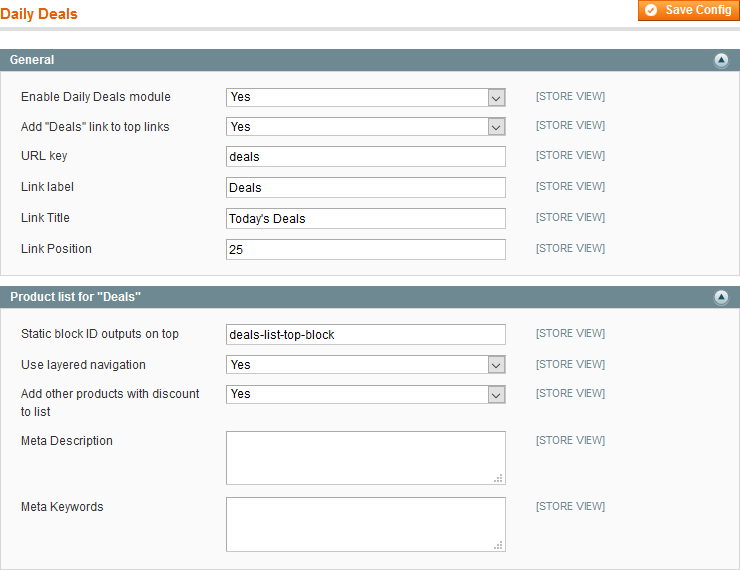
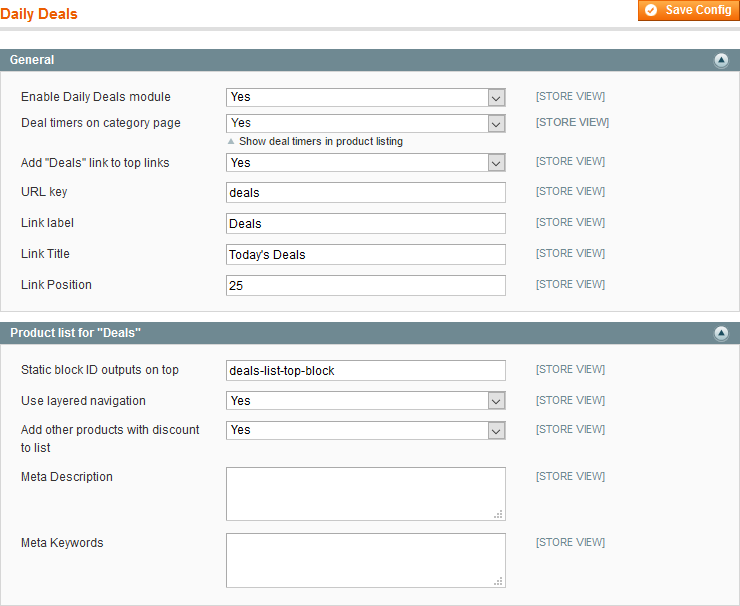
:books: Daily Deals updated to 1.1.0 :tada:

diff --git a/m1/extensions/dailydeals/index.md b/m1/extensions/dailydeals/index.md
@@ -17,25 +17,27 @@ than one product. With our extension you could create periodic deals. For exampl
 periodic Weekend deal or periodic Friday night deal.
 
 1. [Installation](installation/)
-	- [Update from version 1.0.1](installation/#update-from-version-101)
+    - [Update from version 1.0.1 to 1.0.2](installation/#update-from-version-101-to-102)
+    - [Update from version 1.0.2 to 1.1.0](installation/#update-from-version-102-to-110)
 2. [Backend](backend/)
-	- [Create deal](backend/create-deal/)
-		* [General](backend/create-deal/#general-tab)
-		* [Advanced](backend/create-deal/#advanced-tab)
-		* [Label](backend/create-deal/#label-tab)
-		* [Assigned products](backend/create-deal/#assigned-products-tab)
-	- [Edit deal](backend/edit-deal/)
-	- [Extension configuration](backend/extension-configuration/)
+    - [Create deal](backend/create-deal/)
+        * [General](backend/create-deal/#general-tab)
+        * [Advanced](backend/create-deal/#advanced-tab)
+        * [Label](backend/create-deal/#label-tab)
+        * [Assigned products](backend/create-deal/#assigned-products-tab)
+    - [Edit deal](backend/edit-deal/)
+    - [Extension configuration](backend/extension-configuration/)
 3. [Frontend](frontend/)
-	- [Features right from the box](frontend/features-right-from-the-box/)
-	- [Checkout feature](frontend/checkout-feature/)
-	- [Additional features](frontend/#)
-		* [Deal timer on category page](frontend/additional-features/deal-timer-on-category-page/)
-		* [Other products with discount on deals page](frontend/additional-features/other-products-with-discount/)
-		* [Deal label](frontend/additional-features/deal-label/)
-		* [Custom deal timer](frontend/additional-features/custom-deal-timer/)
-		* [Widgets](frontend/additional-features/widgets/)
-		* [Description for deals page](frontend/additional-features/description-for-deals-page/)
+    - [Features right from the box](frontend/features-right-from-the-box/)
+    - [Checkout feature](frontend/checkout-feature/)
+    - [Additional features](frontend/#)
+        * [Deal timer on category page](frontend/additional-features/deal-timer-on-category-page/)
+        * [Other products with discount on deals page](frontend/additional-features/other-products-with-discount/)
+        * [Deal label](frontend/additional-features/deal-label/)
+        * [Custom deal timer](frontend/additional-features/custom-deal-timer/)
+        * [Widgets](frontend/additional-features/widgets/)
+        * [Description for deals page](frontend/additional-features/description-for-deals-page/)
 4. [Use cases](use-cases/)
-	- [Timer can not find jQuery](use-cases/#timer-can-not-find-jquery)
-	- [jQuery(...) is not a function](use-cases/#jquery-is-not-a-function)
+    - [Timer can not find jQuery](use-cases/#timer-can-not-find-jquery)
+    - [jQuery(...) is not a function](use-cases/#jquery-is-not-a-function)
+    - [Change Flip Timer color](/m1/extensions/countdowntimer/use-cases/#change-flip-timer-color)

diff --git a/m1/extensions/dailydeals/frontend/checkout-feature.md b/m1/extensions/dailydeals/frontend/checkout-feature.md
@@ -8,19 +8,20 @@ category: Daily Deals
 
 # Checkout feature
 
-There are two critical situations that can happen while placing the order by
-customer:
+There are two critical situations that can happen while customer places order:
 
-- deal ends before buyer clicked **`Place order`** on checkout;
-- store owner changes the amount of deal before buyer clicks **`Place order`** on
-checkout.
+- deal ends before customer clicks **`Place order`** on checkout;
+- store owner changes the amount of deal before customer clicks
+**`Place order`** on checkout.
 
-In such cases can occur bad situation, when buyer saw one amount in order
-summary on checkout and the amount looks different in final order.
+Customer can have bad expirience with your store in such cases. Customer saw
+order amount in summary on checkout, but this amount is different in final order.
 
-Our extension will help you to avoid unpleasant experience with your
-customers. We offer to redirect the customer to shopping cart with a message about
-any mismatches during placing orders with daily deals.
+Our extension protects your customers from such unpleasant experience
+with your store. Extension redirects customer to shopping cart with a message
+about any mismatches during placing order with daily deals.
 
 This verification supports standard Magento Onepage and Multishipping Checkout
-and FireCheckout from Templates Master. If you have other checkout extension it would also be provided with verification feature. Please contact our support team.
+and [FireCheckout](/m1/extensions/firecheckout/) from Templates Master. If you
+have other checkout extension it would also be provided with verification
+feature. All you need is to contact our support team.

diff --git a/m1/extensions/dailydeals/frontend/additional-features/deal-label.md b/m1/extensions/dailydeals/frontend/additional-features/deal-label.md
@@ -8,10 +8,10 @@ category: Daily Deals
 
 # Deal label
 
-Daily Deals exstension in integrated with [Prolabels extension](/m1/extensions/prolabels/)
-version 2.7.2 or higher, thereby you can easily add label for the deal. Labels
-will be displayed on the category page or on product page on the product
-related to the deal.
+Daily Deals label feature requires [Prolabels extension](/m1/extensions/prolabels/)
+version 2.7.2 or higher. You can not add label to the deal without it.
+
+Labels output on the category page and on product page for products with deal.
 
 ![Deal label example](/images/dailydeals/frontend/deal-label.png)
 
@@ -28,3 +28,14 @@ In order to get a label as shown on image above, please go to backend and
 | *Position style* | `margin-bottom: 0px; width: 125px; border-bottom: 20px solid #a5205f; border-right: 10px solid transparent; background-color: transparent` |
 |------------------|-----------------------------------------------------------|
 | *Font style*     | `width: 125px; position: relative; top: 20px; line-height: 20px; margin: auto; font-size: 11px;`|
+
+Deal labels support the same string variables ("special strings") as Prolables.
+And extension provides two additional:
+
+- `#deal:discount_perc#` - discount percentage for product with deal
+- `#deal:discount_amnt#` - amount of discount for product with deal
+
+When in field `Text` for deals label you type `Friday saves you #deal:discount_perc#%`,
+then here is what you get on frontend:
+
+![Deal label with string variable](/images/dailydeals/frontend/deal-label-string-variable.png)

diff --git a/m1/extensions/dailydeals/frontend/features-right-from-the-box.md b/m1/extensions/dailydeals/frontend/features-right-from-the-box.md
@@ -11,22 +11,26 @@ category: Daily Deals
 Look at what you get on frontend after you create deal. Screenshots are taken from
 RWD theme:
 
-* **Product page with deal timer**
+##### Product page with deal timer
 
 ![Product view example](/images/dailydeals/frontend/product-view.png)
 
-* **Product listing page with deal timers** (can be turned off in extension
-settings)
+##### Product listing page with deal timers
+
+You can turn it off in [extension settings](../../backend/extension-configuration/).
 
 ![Product listing example](/images/dailydeals/frontend/product-listing.png)
 
-* **All products with active deals at this moment** (if you created deal but
-there are still no products on page ***'Deals today'***, please check the root 
-category - it should have option `Is anchored` set to `Yes`)
+##### All products with active deals in one place
+
+If you created deal but there are still no products on page ***'Deals today'***,
+please check the root category it should have option `Is anchored` set to `Yes`.
 
 ![Deals page example](/images/dailydeals/frontend/deals-page.png)
 
-* If customer **adds to a cart the product with deal** and deal ends less than
-in a 10 minutes, then he see the message in shopping cart next to product:
+##### Add to cart product with deal
+
+If customer adds to a cart the product with deal and deal ends less than in 10
+minutes, then he see the message in shopping cart next to product:
 
 ![Cart with product in deal example](/images/dailydeals/frontend/cart.png)

diff --git a/m1/extensions/dailydeals/frontend/additional-features/deal-timer-on-category-page.md b/m1/extensions/dailydeals/frontend/additional-features/deal-timer-on-category-page.md
@@ -8,10 +8,15 @@ category: Daily Deals
 
 # Deal timer on category page
 
-In order to add the timer on category page, you have to modify the template.
+In Daily Deals extension after version 1.1.0 this feature does not requier any
+template modifications. It can be enabled or disabled via extension
+configuration at magento backend.
+
+If you upgraded from version 1.0.2 or older and you have modified template, then
+we recommend remove code to prevent duplication of timers.
 In case of RWD theme path to template is
-`/app/design/frontend/rwd/default/template/catalog/product/list.phtml`, add the
-following code.
+`/app/design/frontend/rwd/default/template/catalog/product/list.phtml`. Code to
+remove:
 
 ```php
 <?php if (Mage::helper('core')->isModuleOutputEnabled('TM_DailyDeals')) : ?>
@@ -19,8 +24,7 @@ following code.
 <?php endif ?>
 ```
 
-This code should be added after `<h2 class="product-name">...</h2>`. It is near
-rows 68 and 134 for RWD theme. You can check the result on catalog page. It will
-be applied to category that has products which are included in deal:
+If you still can not see deal timer at category page:
 
-![Deal timer on category page](/images/dailydeals/frontend/deal-timer-on-category-page.png)
+- check [Use cases](/m1/extensions/dailydeals/use-cases/) page
+- contact [support team](https://swissuplabs.com/contacts/)

diff --git a/m1/extensions/dailydeals/frontend/additional-features/custom-deal-timer.md b/m1/extensions/dailydeals/frontend/additional-features/custom-deal-timer.md
@@ -12,13 +12,14 @@ If you want to change the default deal timer, you can set the custom
 timer with Daily Deals extension. Basically you can set different timer for each
 deal.
 
-Daily Deals extension comes with Countdown Timer extension. Feel free to use
+Daily Deals extension comes with [Countdown Timer extension](/m1/extensions/countdowntimer/)
+. Feel free to use
 two widgets with clear interface:
 
 - Countdown Timer - Flip timer
 - Countdown Timer - Simple timer
 
-Flip Timer is the default deal timer.
+Flip Timer is the default deal timer. 
 
 Let's set up the other timer for deal. It will be called “Hurry! Don’t miss it!”.
 
@@ -31,6 +32,10 @@ common magento textarea for content. Paste the code listed below to textarea:
 <p style="color: #a5205f">Hurry! Don’t miss it!</p>
 {% raw %}{{widget type="tm_countdowntimer/timer_simple" date="%_ENDTIME_%" inlinecss="font-family: 'Raleway','Helvetica Neue',Verdana,Arial,sans-serif; color:#636363; font-size:2em"}}{% endraw %}
 ```
+
+You can set different timers for product veiw and product listing pages. In our
+case we leave `Timer for product listing` textarea empty and fill only
+`Timer for product page`.
 
 Save deal and go to frontend. Have a look at the result:
 

diff --git a/m1/extensions/dailydeals/backend/create-deal.md b/m1/extensions/dailydeals/backend/create-deal.md
@@ -93,8 +93,20 @@ The default deal timer can be modified in section `Deal timer`.
 This tab allows you to set label for all deal products. Label can appear on the
 product image in products listing and product view.
 
+You can set different labels for product listing and for product page. For
+example, you can set big shiny “Hot sale!!!” badge on product page and smaller
+badge for product listing (so it would not overlap with product image on
+listing).
+
+If you want to have identical labels for product view and product listing, then
+you can set option `Use different label` to `No` in section
+`Product listing label`. And fill values only for `Product label`.
+
 ![Label example](/images/dailydeals/backend/create-deal-label-tab.png)
 
 Deal labels are tightly integrated with our [Prolabels extension](/m1/prolabels) (minimum version
 2.7.2). If you do not have Prolabels or its version is lower, the deal label
 will not be set.
+
+About general extension settings you can read at respective paragraph -
+[Extension configuration](../extension-configuration/).

diff --git a/m1/extensions/dailydeals/frontend/additional-features/widgets.md b/m1/extensions/dailydeals/frontend/additional-features/widgets.md
@@ -10,15 +10,10 @@ category: Daily Deals
 
 Our extension provides you with two widgets:
 
-- Daily Deals - Product
-- Daily Deals - Product (custom template)
+- Daily Deals: Single product
+![Single product widget example](/images/dailydeals/frontend/widget-single.png)
+- Daily Deals: Product list
+![Product list widget example](/images/dailydeals/frontend/widget-list.png)
 
-Both widgets insert block which displays product from active deal. You can
-display random product or other specified product. You can also specify the deal.
-
-Widget "Daily Deals - Product" can output content as a column or as a row. You
-are allowed to set CSS class to widget and customize its output: set background,
-set different font color to texts, etc.
-
-With widget "Daily Deals - Product (custom template)" you can create your own
-template and use it to output widget content.
+For these widgets you can set deal filter, product filter or output template
+(column/row, grid/list).

diff --git a/m1/extensions/dailydeals/backend/extension-configuration.md b/m1/extensions/dailydeals/backend/extension-configuration.md
@@ -13,6 +13,10 @@ In order to change general extension settings, go to `System` -> `Configuration`
 
 ![Dailydeals system config options](/images/dailydeals/backend/system-config.png)
 
+`Deal timers on category page` - enables or disables deal timer in product
+listing for products with deal. You can check how listing looks when this option
+enabled in paragraph [Features right from the box](../../frontend/features-right-from-the-box/#product-listing-page-with-deal-timers).
+
 `Add "Deals" link to top links` - add link to the page where there are all
 products of active deals. This link will appear in top links block at your store.
 

diff --git a/m1/extensions/dailydeals/frontend/additional-features/other-products-with-discount.md b/m1/extensions/dailydeals/frontend/additional-features/other-products-with-discount.md
@@ -9,8 +9,8 @@ category: Daily Deals
 # Other products with discount on deals page
 
 With our extension you will encourage customers to buy not only products included
-in deal, but also products that have any discount on products in your store.
-In order to show other products with discount, enable the option `Add other
+in deal, but also products that have any discount in your store. In order to
+show other products with discount, enable the option `Add other
 products with discount to list` in
 [extension configuration](../../../backend/extension-configuration/).
 

diff --git a/m1/extensions/dailydeals/use-cases/index.md b/m1/extensions/dailydeals/use-cases/index.md
@@ -10,6 +10,7 @@ category: Daily Deals
 
 - [Timer can not find jQuery](#timer-can-not-find-jquery)
 - [jQuery(...) is not a function](#jquery-is-not-a-function)
+- [Change Flip Timer color](/m1/extensions/countdowntimer/use-cases/#change-flip-timer-color)
 
 ### Timer can not find jQuery
 
